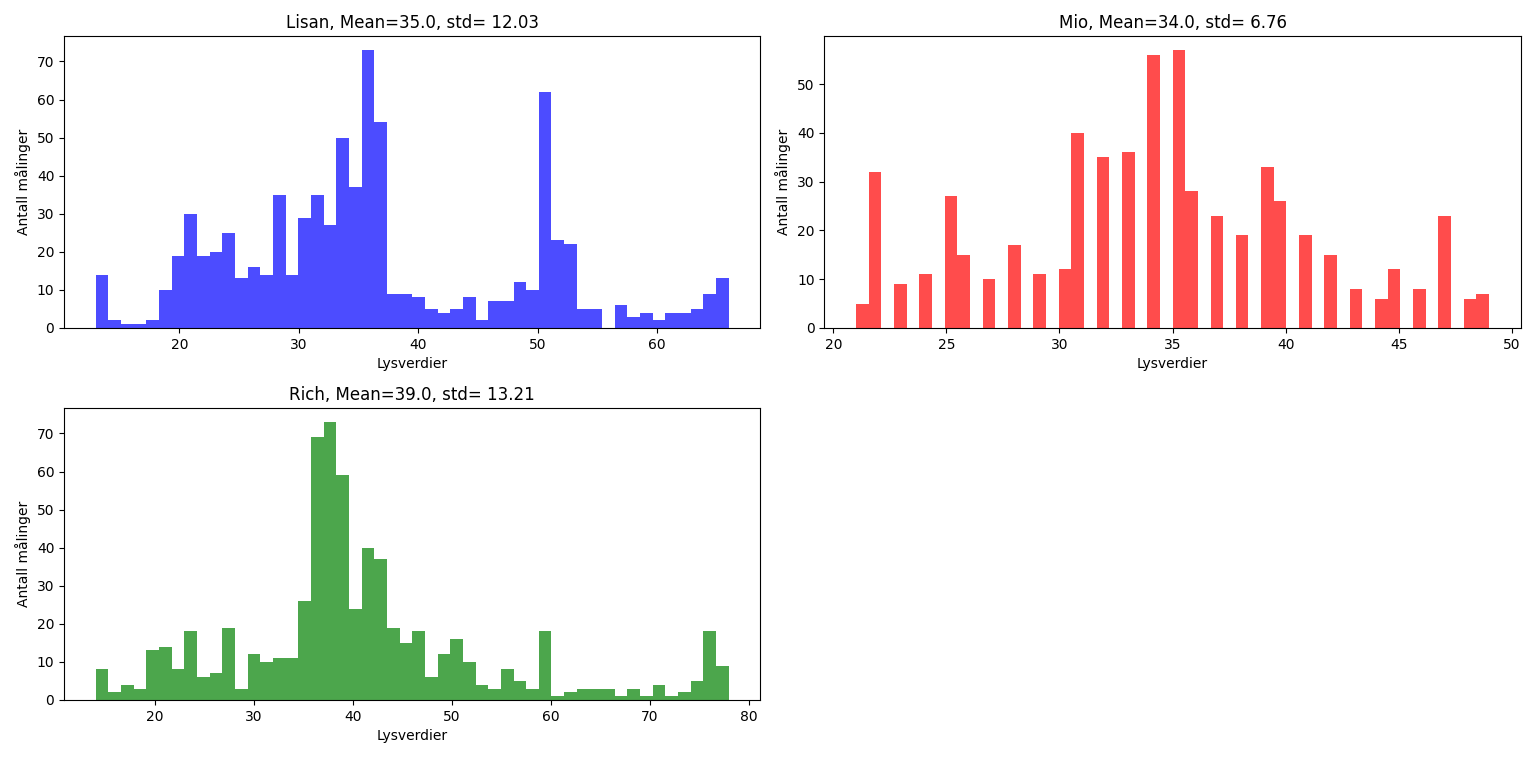
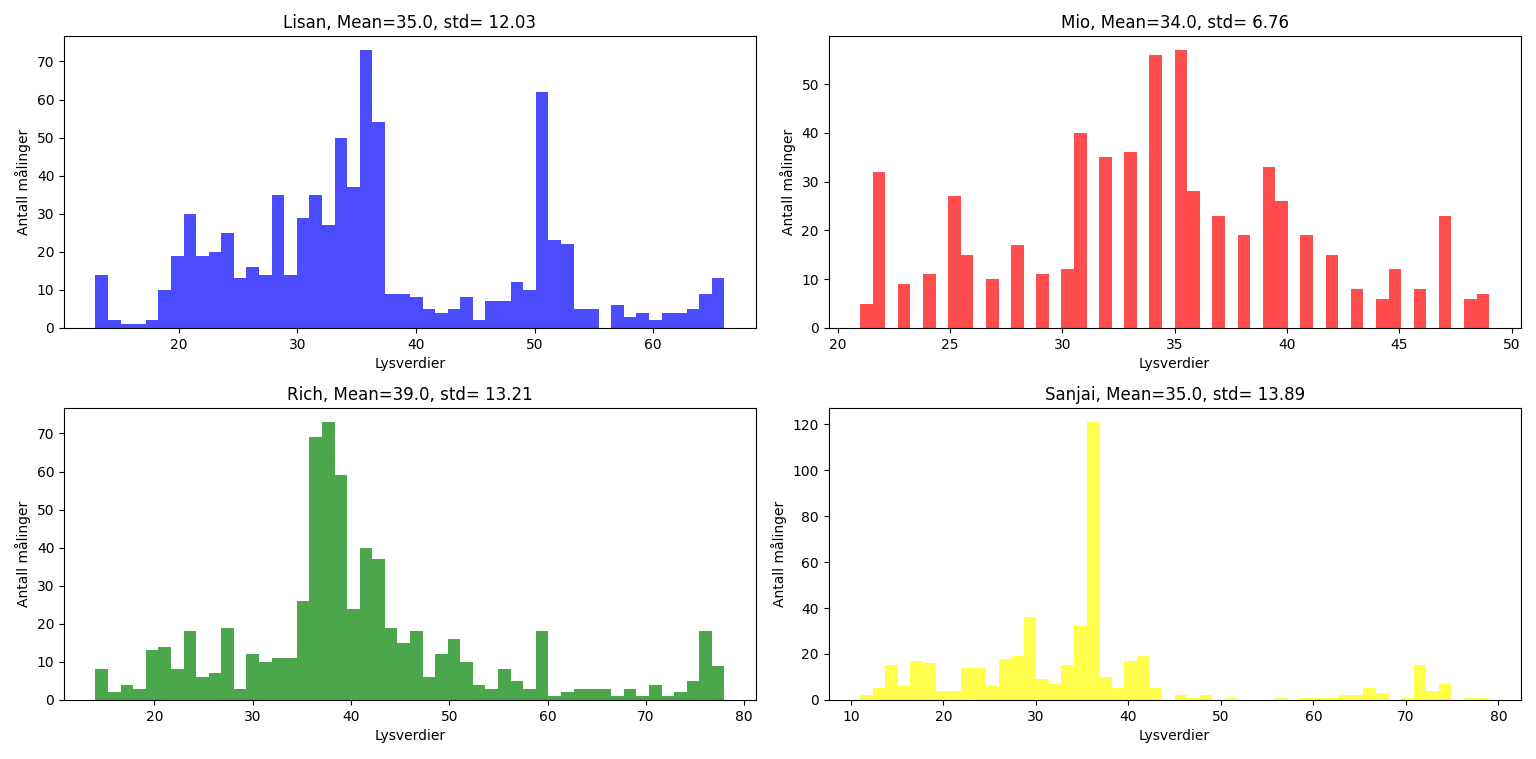
lkajøsfdskafljsadfølskdajf

diff --git a/Python/Prosjekt04_ManuellKjoring/histogram.py b/Python/Prosjekt04_ManuellKjoring/histogram.py
@@ -72,6 +72,28 @@ for line in lines:
             # Append the value of Lys to the list of Lys values
             Lys_R.append(Lys)
 
+with open('Data\Offline_P04_ManuellKjøring_Sanjai.txt', 'r') as f:
+    # Skip the first line (header)
+    next(f)
+    # Read the remaining contents of the file into a string
+    data = f.read()
+
+# Split the data into a list of lines
+lines = data.split('\n')
+
+# Extract the values of Lys into a list
+Lys_S = []
+for line in lines:
+    # Skip any empty lines
+    if line:
+        # Split each line into a list of values
+        values = line.split(',')
+        # Check that the list of values has at least 9 elements (including Lys)
+        if len(values) >= 9:
+            # Extract the value of Lys from the list
+            Lys = float(values[8])
+            # Append the value of Lys to the list of Lys values
+            Lys_S.append(Lys)
 
 # Create a histogram of the Lys values
 import matplotlib.pyplot as plt
@@ -97,8 +119,11 @@ axs[1, 0].set_title(f'Rich, Mean={statistics.median(Lys_R)}, std={statistics.std
 axs[1, 0].set_xlabel('Lysverdier')
 axs[1, 0].set_ylabel('Antall målinger')
 
-# Remove the unused subplot
-axs[1, 1].axis('off')
+# Lys_R histogram
+axs[1, 1].hist(Lys_S, bins=50, color='yellow', alpha=0.7)
+axs[1, 1].set_title(f'Sanjai, Mean={statistics.median(Lys_S)}, std={statistics.stdev(Lys_S): .2f}')
+axs[1, 1].set_xlabel('Lysverdier')
+axs[1, 1].set_ylabel('Antall målinger')
 
 plt.tight_layout()
 plt.show()
